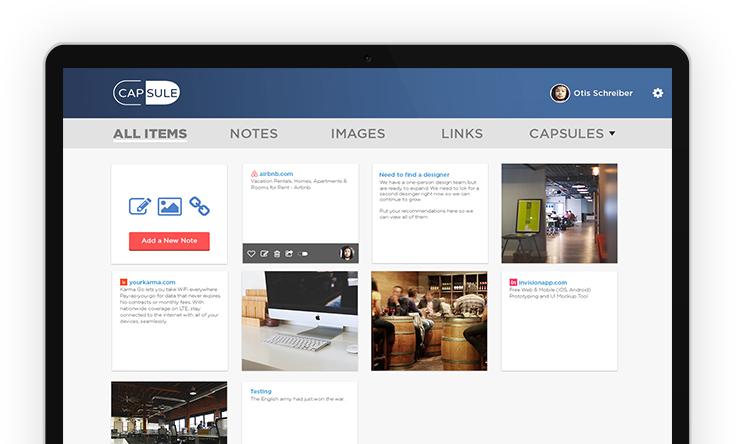
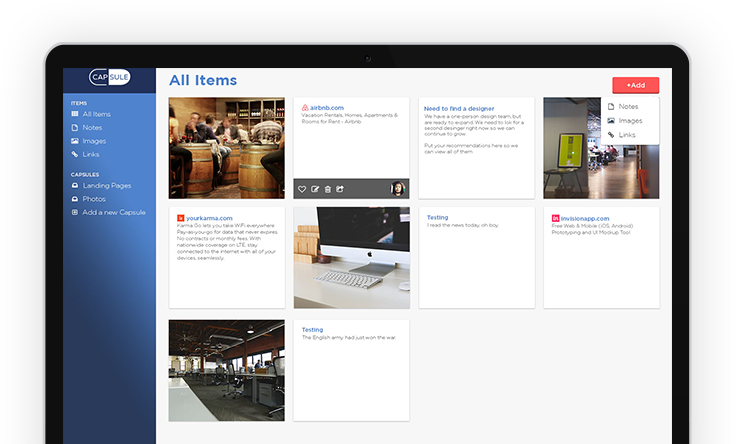
Before Deploy

diff --git a/css/Style.css b/css/Style.css
@@ -440,7 +440,7 @@ header .hero {
    }
  }
 
-<<<<<<< HEAD
+
   @media (min-width: 768px) and (max-width: 991px){
     footer .logo{
       padding: 0;
@@ -460,7 +460,7 @@ header .hero {
       margin: auto;
     }
   }
-=======
+
  @media (min-width: 768px) and (max-width: 991px){
    footer .logo{
      padding: 0;
@@ -480,7 +480,7 @@ header .hero {
      margin: auto;
    }
  }
->>>>>>> af4e46ba2da70a1c965204eea5f448ef1b1cb953
+
 
 /* DASHBOARD */
 .dashboard {
@@ -489,15 +489,14 @@ header .hero {
 .left-nav {
   height: 100%;
   width: 280px;
+  float:left;
+  position:absolute;
   color: #FFFFFF;
   background: #213159;
    background-image: -moz-linear-gradient( 30deg, rgb(33,49,89) 0%, rgb(79,131,204) 100%);
    background-image: -webkit-linear-gradient( 30deg, rgb(33,49,89) 0%, rgb(79,131,204) 100%);
    background-image: -ms-linear-gradient( 30deg, rgb(33,49,89) 0%, rgb(79,131,204) 100%);
-   float:left;
-   position: fixed;
-   position:absolute;
-   display:block;
+
    -webkit-transition: all 0.3s ease-in-out;
    -moz-transition: all 0.3s ease-in-out;
    -o-transition: all 0.3s ease-in-out;
@@ -508,22 +507,19 @@ header .hero {
      -moz-transform: translate(-280px,0); /** Firefox **/
  }
  .left-nav.open {
-   display:block;
-   width:280px;
-   background: #213159;
-   background-image: -moz-linear-gradient( 30deg, rgb(33,49,89) 0%, rgb(79,131,204) 100%);
-   background-image: -webkit-linear-gradient( 30deg, rgb(33,49,89) 0%, rgb(79,131,204) 100%);
-   background-image: -ms-linear-gradient( 30deg, rgb(33,49,89) 0%, rgb(79,131,204) 100%);
-   -webkit-transition: all 0.3s ease-in-out;
-   -moz-transition: all 0.3s ease-in-out;
-   -o-transition: all 0.3s ease-in-out;
-   transition: all 0.3s ease-in-out;
-   transform: translate(0,0);
-     -webkit-transform: translate(0,0); /** Chrome & Safari **/
-     -o-transform: translate(0,0); /** Opera **/
-     -moz-transform: translate(0,0); /** Firefox **/
-     z-index: 100;
+  display:block;
+  width:280px;
+  -webkit-transition: all 0.3s ease-in-out;
+  -moz-transition: all 0.3s ease-in-out;
+  -o-transition: all 0.3s ease-in-out;
+  transition: all 0.3s ease-in-out;
+  transform: translate(0,0);
+    -webkit-transform: translate(0,0); /** Chrome & Safari **/
+    -o-transform: translate(0,0); /** Opera **/
+    -moz-transform: translate(0,0); /** Firefox **/
+    z-index: 100;
  }
+
  .hamburger {
    position:absolute;
    z-index: 1000;
@@ -576,53 +572,56 @@ header .hero {
 }
 .left-nav .items p {
   font-family: "GothamThin";
-  font-weight: 600;
   text-transform: uppercase;
   font-size: 12px;
   color:#E2E2E2;
   line-height: 15px;
-  text-decoration: none;
 }
-.left-nav .items ul {
+.left-nav ul {
   margin: 0 0 40px;
   padding: 0;
 }
-.left-nav .items ul li a:active {
-  font-family: "GothamThin";
-  list-style-type: none;
-  margin-bottom: 15px;
-  background-color: #FFFFFF;
-  color: #213159;
-  text-decoration: none
-}
-.left-nav .items ul li a {
+.left-nav ul li {
+   list-style-type: none;
+   margin-bottom: 15px;
+ }
+.left-nav ul li a {
   font-family: "Gothamthin";
   color: #FFFFFF;
   text-decoration: none;
-  font-weight: 100;
 }
 .left-nav .items ul li a i {
   width: 16px;
   text-align: center;
   margin-right: 8px;
 }
+div.items li.selected a {
+  color:#213159;
+  border-radius: 2px;
+  background: #FFF;
+  padding: 3px;
+  margin-left: -3px;
+  width: 300px;
+  height: 200px;
+}
 
 /* LEFT NAVBAR SETTINGS */
- .left-nav .settings {
+.left-nav .settings {
    position:absolute;
+   color:#ffffff;
    background:#213159;
    width:100%;
-   bottom:0;
-   left:0;
+   bottom: 0;
+   left: 0;
    right:0;
-   padding:10px 0;
+   height:50px;
+   padding:10px 0px 0px 0px;
  }
- .left-nav .settings img {
+.left-nav .settings img {
    height:35px;
    width:35px;
    border-radius: 50%;
    margin-left:10px;
-   margin-top: 10px;
    display: inline-block;
  }
  .left-nav .settings p {
@@ -631,7 +630,7 @@ header .hero {
    vertical-align: top;
    padding-top: 15px;
    font-weight: 400;
-   margin:0 0 0 10px;
+   margin:-8px 0 0 10px;
  }
  .left-nav .settings a {
    color:#FFFFFF;
@@ -641,7 +640,9 @@ header .hero {
    margin-right:10px;
    margin-top:8px;
  }
-
+  .left-nav .settings .menu {
+    margin:0 3px 0 0;
+  }
 /* CONTENT */
 .content {
   padding: 6em 1% 1.5em;
@@ -718,7 +719,7 @@ header .hero {
      position: relative;
    }
    .content > .container {
-     width:700px;
+     width:auto;
    }
    .content-item {
      width:31.33333%;

diff --git a/images.html b/images.html
@@ -11,40 +11,63 @@
    <link rel="stylesheet" href="css/Style.css">
    <link rel="stylesheet" href="css/Font-Awesome.css">
    <link rel="stylesheet" href="css/animate.css">
+   <link rel="stylesheet" href="css/dropit.css">
+   <link rel="stylesheet" href="css/Gotham-Type.css">
 
 </head>
 <body class="dashboard">
+
   <!-- LEFT NAV -->
    <nav id="left-nav" class="left-nav">
      <a href="#" class="site-logo"><img src="images/site-logo.png" /></a>
      <div class="items">
        <p>Items</p>
        <ul>
-         <li><a href="file:///Users/thomaskurth/Desktop/Capsule/dashboard.html#"><i class="fa fa-th-large"></i> All Items</a></li>
+         <li><a href="file:///Users/thomaskurth/Desktop/Capsule/dashboard.html"><i class="fa fa-th-large"></i> All Items</a></li>
          <li><a href="#"><i class="fa fa-file-o"></i> Notes</a></li>
-         <li><a href="file:///Users/thomaskurth/Desktop/Capsule/images.html"><i class="fa fa-picture-o"></i> Images</a></li>
+         <li class="selected"><a href="file:///Users/thomaskurth/Desktop/Capsule/images.html"><i class="fa fa-picture-o"></i> Images</a></li>
          <li><a href="#"><i class="fa fa-link"></i> Links</a></li>
        </ul>
        <p>Capsules</p>
        <ul>
          <li><a href="#"><i class="fa fa-inbox"></i> Landing Pages</a></li>
-         <li><a href="#"><i class="fa fa-inbox"></i> BB Photos</a></li>
+         <li><a href="#"><i class="fa fa-inbox"></i> Capsule Photos</a></li>
          <li><a href="#"><i class="fa fa-plus-square-o"></i> Add a new Capsule</a></li>
        </ul>
      </div>
      <div class="settings">
-     <img src="https://s3.amazonaws.com/uifaces/faces/twitter/abinav_t/128.jpg">
-     <p>Otis Schreiber</p>
-     <a href="#"><i class="fa fa-cog"></i></a>
+       <ul class="settings">
+         <img src="https://s3.amazonaws.com/uifaces/faces/twitter/abinav_t/128.jpg">
+         <p>Otis Schreiber</p>
+         <ul class ="menu" id="menuSettings">
+          <li>
+            <a href="#"><i class="fa fa-cog"></i></a>
+            <ul>
+                <li><a href="#"><i class="fa fa-cog"></i> Account Settings</a></li>
+                <li><a href="#"><i class="fa fa-group"></i> Collaborators</a></li>
+                <li><a href="#"><i class="fa fa-sign-out"></i> Sign Out</a></li>
+           </ul>
+         </li>
+      </ul>
    </div>
    </nav>
    <main role="main"></main>
+
   <!-- IMAGES -->
   <section class="images">
     <div class="container">
       <div class="header">
         <h1>Images</h1>
-        <a href="#" class="btn">+ Add</a>
+        <ul class="menu">
+           <li>
+             <a href="#" class="btn">+ Add</a>
+             <ul>
+                 <li><a href="#"><i class="fa fa-file-o"></i> Note</a></li>
+                 <li><a href="#"><i class="fa fa-picture-o"></i> Image</a></li>
+                 <li><a href="#"><i class="fa fa-link"></i> Link</a></li>
+             </ul>
+           </li>
+         </ul>
       </div>
     </div>
     <div class="container">
@@ -70,5 +93,16 @@
         </div>
       </div>
     </section>
+    <script src="js/jquery-3.2.1.min.js"></script>
+    <script src="js/dropit.js"></script>
+    <script text="text/javascript">
+      $(".menu").dropit();
+      $( "#menu" ).click(function() {
+          $("#left-nav").toggleClass("open", 200);
+      });
+    </script>
+    <script text="text/javascript">
+      $(".settings").dropit();
+    </script>
  </body>
  </html>

diff --git a/dashboard.html b/dashboard.html
@@ -24,7 +24,7 @@
      <div class="items">
        <p>Items</p>
        <ul>
-         <li><a href="file:///Users/thomaskurth/Desktop/Capsule/dashboard.html#"><i class="fa fa-th-large"></i> All Items</a></li>
+         <li class="selected"><a href="file:///Users/thomaskurth/Desktop/Capsule/dashboard.html"><i class="fa fa-th-large"></i> All Items</a></li>
          <li><a href="#"><i class="fa fa-file-o"></i> Notes</a></li>
          <li><a href="file:///Users/thomaskurth/Desktop/Capsule/images.html"><i class="fa fa-picture-o"></i> Images</a></li>
          <li><a href="#"><i class="fa fa-link"></i> Links</a></li>
@@ -32,7 +32,7 @@
        <p>Capsules</p>
        <ul>
          <li><a href="#"><i class="fa fa-inbox"></i> Landing Pages</a></li>
-         <li><a href="#"><i class="fa fa-inbox"></i> BB Photos</a></li>
+         <li><a href="#"><i class="fa fa-inbox"></i> Capsule Photos</a></li>
          <li><a href="#"><i class="fa fa-plus-square-o"></i> Add a new Capsule</a></li>
        </ul>
      </div>
@@ -40,6 +40,7 @@
        <ul class="settings">
          <img src="https://s3.amazonaws.com/uifaces/faces/twitter/abinav_t/128.jpg">
          <p>Otis Schreiber</p>
+         <ul class ="menu" id="menuSettings">
           <li>
             <a href="#"><i class="fa fa-cog"></i></a>
             <ul>

diff --git a/css/dropit.css b/css/dropit.css
@@ -56,7 +56,6 @@
   color:#213159;
   text-decoration: none;
   font-family: "GothamThin", Helvetica, Arial, sans-serif;
-  font-weight:100;
  }
 
  .settings .dropit {
@@ -73,10 +72,10 @@
      right: 0; /* dropdown left or right */
      z-index: 1000;
      display: none;
-     min-width: 100px;
+     min-width: 140px;
      list-style: none;
  	padding: -120px;
- 	margin: -120px 0 0;
+ 	margin: -110px 0 0;
  }
  .settings .dropit .dropit-open .dropit-submenu {
    display: block;
@@ -93,7 +92,7 @@
    display: block;
    width: 0;
    z-index: 1;
-   top: 118px;
+   top: 110px;
    right: 10px;
    -ms-transform: rotate(180deg);
   -webkit-transform: rotate(180deg);
@@ -102,6 +101,7 @@
   .settings .dropit .dropit-open .dropit-submenu li {
    display: block;
    margin-bottom: 20px;
+   margin-right: -15px;
   }
   .settings .dropit .dropit-open .dropit-submenu li:last-child {
    margin-bottom: 0px;
@@ -110,5 +110,5 @@
    color:#213159;
    text-decoration: none;
    font-family: "GothamThin", Helvetica, Arial, sans-serif;
-   font-weight:100;
+   font-size: 14px;
   }

diff --git a/css/Gotham-Type.css b/css/Gotham-Type.css
@@ -6,8 +6,6 @@
 		local("Gotham-Medium"),
 		url('fonts/Gotham Medium.otf')
 		format('opentype');
-    font-weight: normal;
-    font-style: normal;
 }
 
 /*bold version*/
@@ -18,7 +16,6 @@
     		local("Gotham-Bold-Regular"),
     		url('fonts/Gotham Bold Regular.ttf')
     		format('opentype');
-        font-weight: bold;
 }
 
 /*thin version*/
@@ -29,4 +26,4 @@
             		local("GothamThin-Regular"),
             		url('fonts/GothamThin Regular.otf')
             		format('opentype');
-                font-weight: thin;
+            
